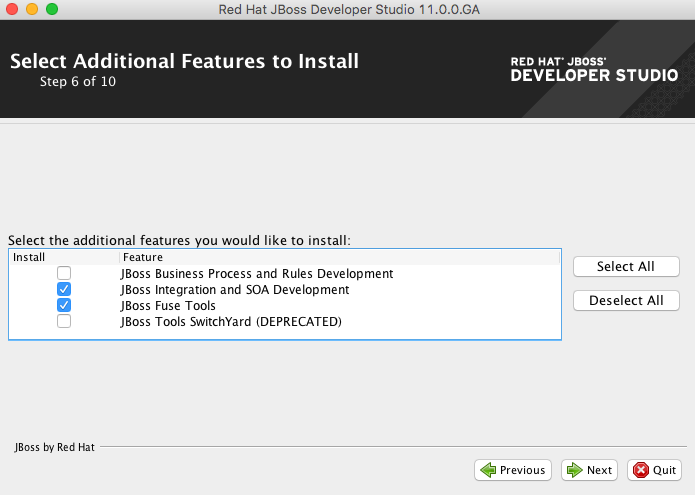
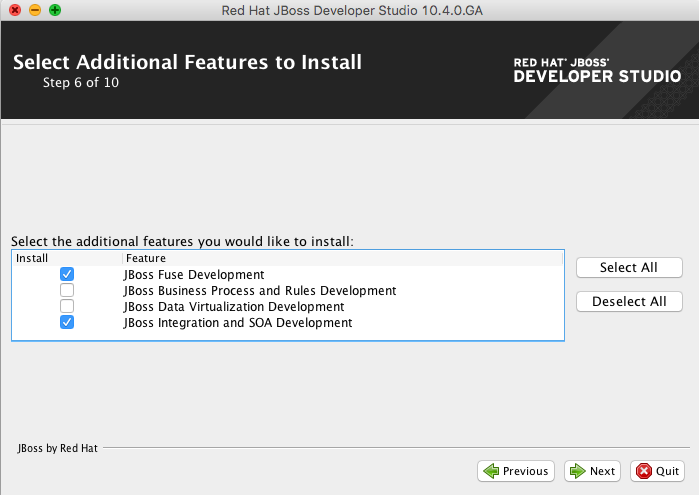
improving lab01

diff --git a/lab01/README.md b/lab01/README.md
@@ -18,7 +18,13 @@ Em *Advance project setup*, escolha **Use a predefined template** e selecione **
 
 O JBDS irá perguntar se você quer alterar a perspectiva para Fuse, informe que *sim*.
 
-![04-devproperties.png](./img/04-devproperties.png)
+Antes de continuar, vamos dar uma olhada no que temos até agora. Abra o arquivo *camel-context.xml*, veja que temos uma rota simples com 3 componentes criada.
+
+![03-1-overview.png](./img/03-1-overview.png)
+
+Execute essa rota, através da execução do método main da classe *Application.java*. Clique com o botão direito em cima do método main, *Run As* -> *Java Application*
+
+![03-2-run.png](./img/03-2-run.png)
 
 Adicione o trecho abaixo nas configurações de datasource no arquivo: **application-dev.properties**
 

diff --git a/lab00/README.md b/lab00/README.md
@@ -17,7 +17,7 @@ Neste settings.xml consta configurados os seguintes repositórios:
 
 ### Jboss Developer Studio
 
-Para instalar o JBoss Developer Studio, basta executar o **devstudio-integration-stack-11.0.0.GA-standalone-installer.jar** em **workshop-integracao/bin** e seguir as instruções abaixo
+Para instalar o JBoss Developer Studio, basta executar o **devstudio-integration-stack-10.4.0.GA-standalone-installer.jar** em **workshop-integracao/bin** e seguir as instruções abaixo
 
 ![07-jbds.png](./img/07-jbds.png)
 ![08-jbds.png](./img/08-jbds.png)
